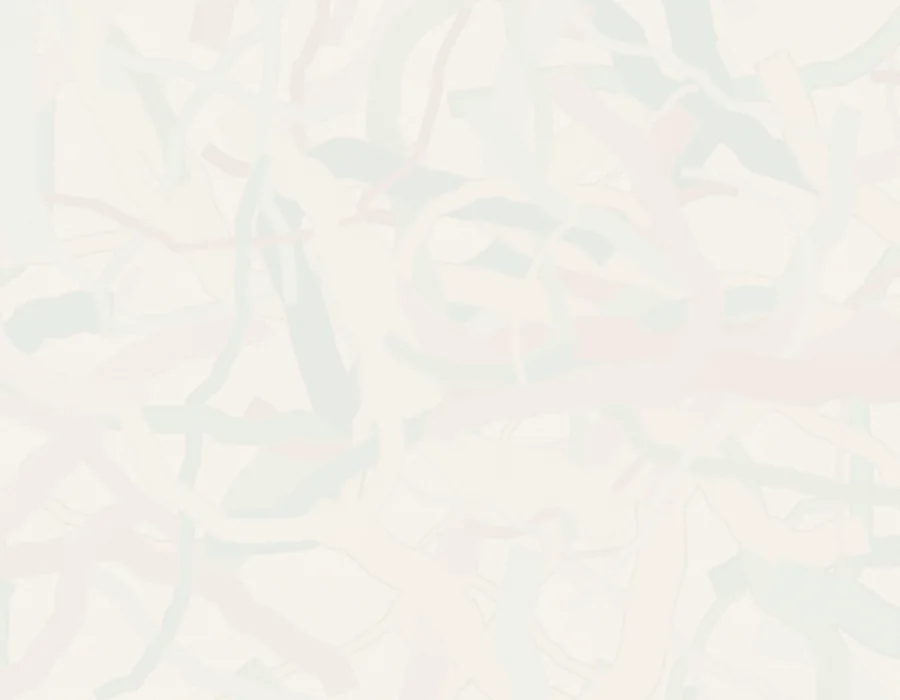
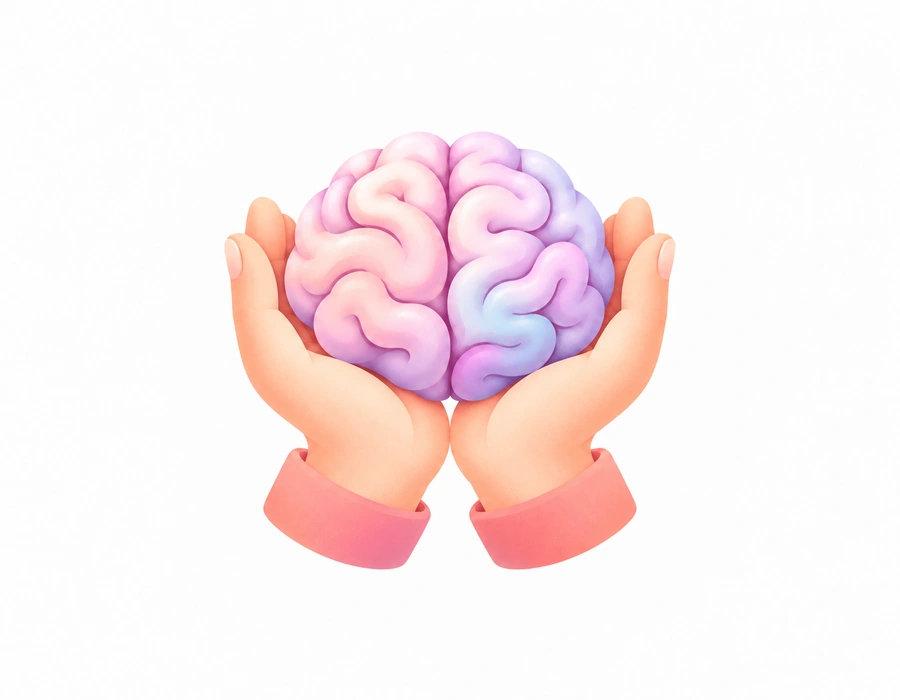
art: use owner-generated spot illustrations for research areas

diff --git a/docs/third-party.md b/docs/third-party.md
@@ -59,13 +59,18 @@ wordmark/favicon is a draft site identity, not an institutional logo.
 See `discovery.md` for the source links and license research. Dependencies retain
 their own package licenses; the project has no blanket content/code license yet.
 
-## Generative artwork (draft, 2026-10-31)
+## Artwork (draft, 2026-10-31; updated late 2026-10-31)
 
-`public/images/art/{hero,cognition,movement,technology}.webp` are original
-generated abstractions (pastel teal/magenta on cream), produced offline from a
-seeded painterly algorithm. They are decorative, not study data, measurements,
-or participant imagery. No p5.js runtime is shipped; replace the files at the
-same paths with owner-generated art if preferred.
+Research-area spot illustrations `public/images/art/{cognition,movement,
+technology}.webp` (900x700, ~22-32 KB each) were generated by the owner with
+their own image-generation tool from the text prompts preserved in
+`docs/art-prompts/` (original compositions; the Dribbble icon-set page cited
+there was used as a written style direction only, never as an input image or
+copied pixels). Decorative use, alt text empty: not study data, measurements,
+or participant imagery.
+
+`public/images/art/hero.webp` (1600x1000) remains an agent-made painterly
+placeholder pending owner-supplied homepage hero art.
 
 Photo credit captions were removed on 2026-10-31 at the owner's request: the
 portraits are the team's own photographs. The provenance table above is retained
